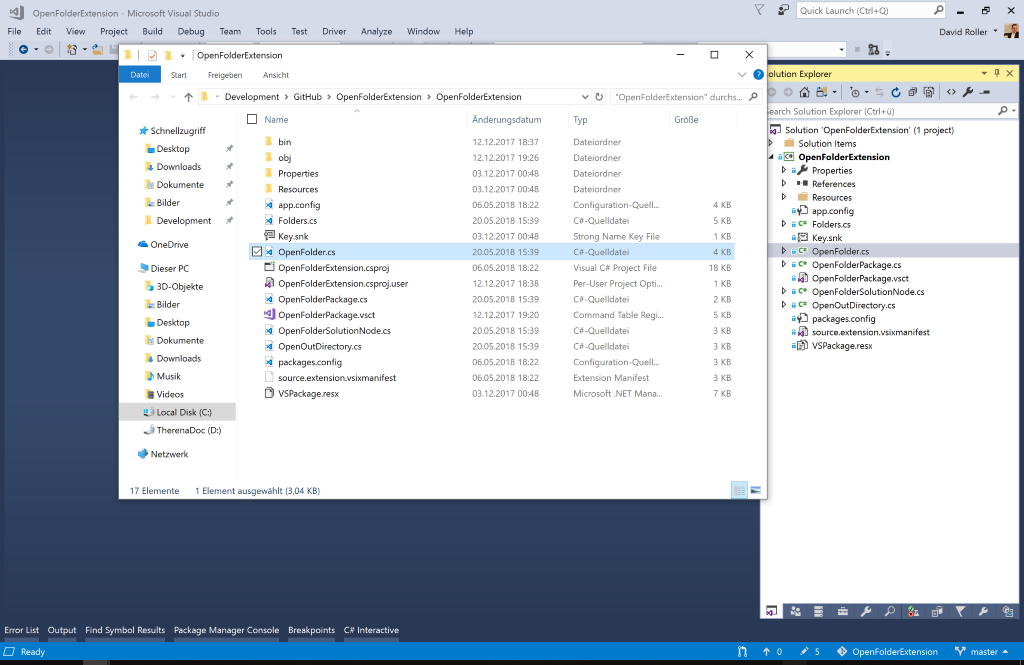
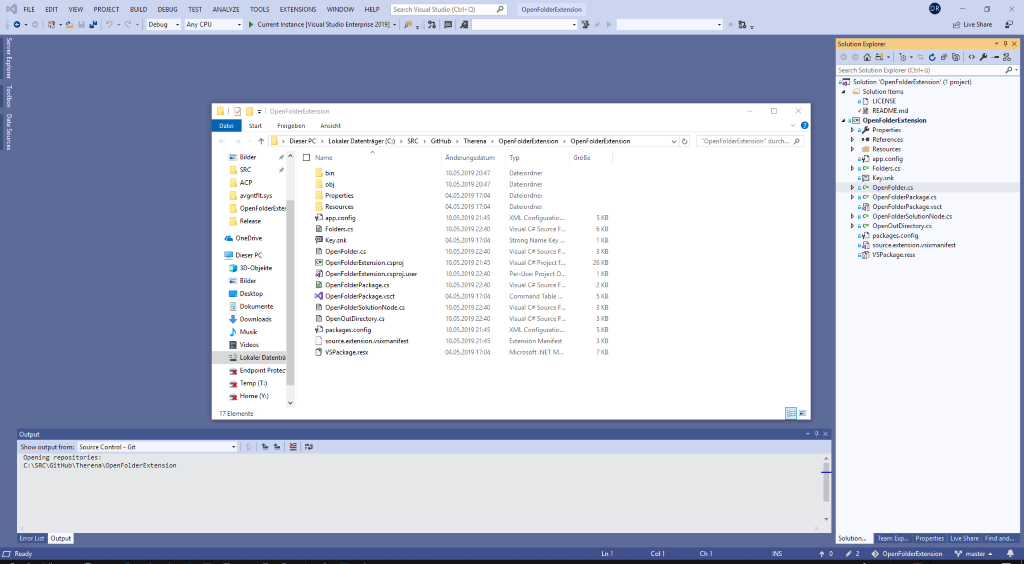
Update screenshots to the new VS2019

diff --git a/README.md b/README.md
@@ -1,7 +1,9 @@
 # OpenFolderExtension
 
 Open folder feature for all items within the solution explorer.
-Download this extension from the [VS Gallery](https://visualstudiogallery.msdn.microsoft.com/2fad2b0f-c4eb-4ba1-91a2-11def441b4a1)
+Download this extension from the Visual Studio Marketplace
+- Visual Studio 2015 - Visual Studio 2017: [Open Folder Extension 2017](https://marketplace.visualstudio.com/items?itemName=DavidRoller.OpenFolderExtension)
+- Visual Studio 2019: [Open Folder Extension 2019](https://marketplace.visualstudio.com/items?itemName=DavidRoller.OpenFolderExtension2019)
 
 ## Features
 
